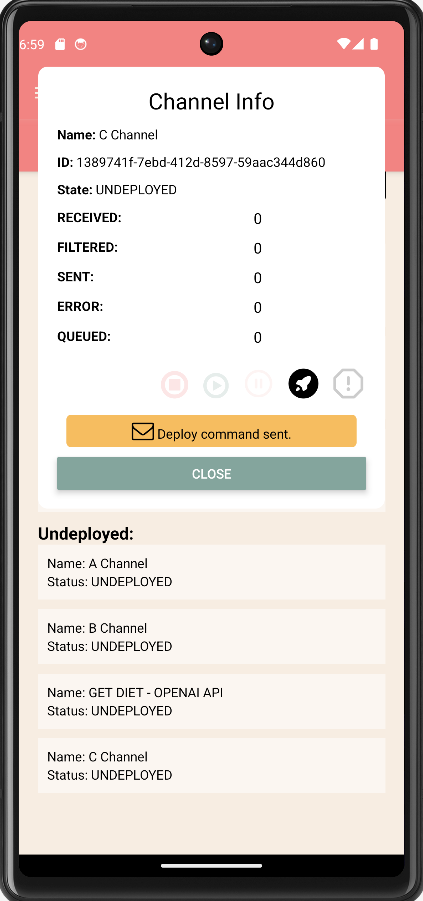
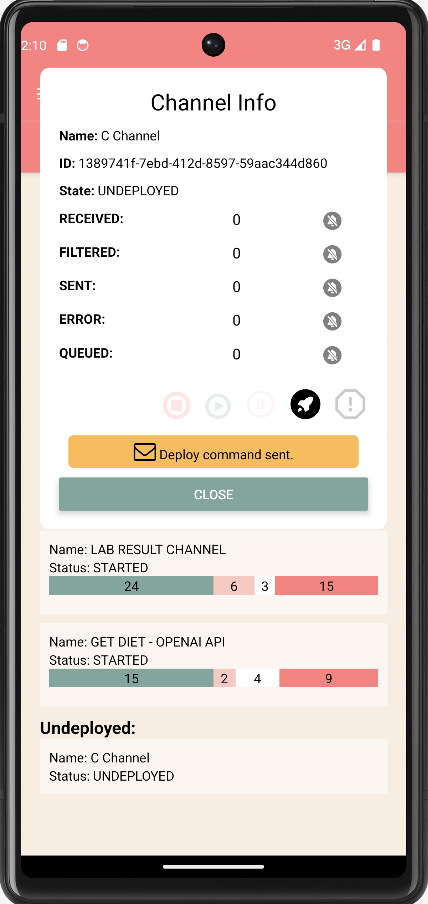
update: document improvement

diff --git a/README.md b/README.md
@@ -2,7 +2,7 @@
 
 ![Feature Image](docs/pocketmrth-feature-graphic.png)
 
-PocketMRTH is a free mobile app created in React Native and Expo.dev. It allows you to view and monitor your Mirth Connect instance and its channel statistics on the go.
+PocketMRTH is a free mobile app created in React Native and Expo.dev. It allows you to view, monitor and manage your Mirth Connect instance and its channels on the go.
 
 ## Download
 
@@ -21,6 +21,7 @@ Tutorial link here: [PocketMRTH - Get Started](https://thisdevblogs.wordpress.co
 - Effortless Channel Stats Visualization: Use the app's intuitive charts to visualize the status of your Mirth Connect servers and their channel statistics.
 - Start, Stop, Pause and Resume Channels: You are now able to interact and change your channel's state/status. 
 - Deploy and Undeploy Channels
+- Get Push Notification Alert for Specific Channel Stat Changes: Choose the channel and the specific statistic type to get notified when the app is "minimized". 
 
 ## Screenshots
 
@@ -35,6 +36,8 @@ Tutorial link here: [PocketMRTH - Get Started](https://thisdevblogs.wordpress.co
 ![Channel Command Stop Screen](docs/screenshot-channel-command-stop.png)
 
 ![Channel Command Deploy Screen](docs/screenshot-channel-command-deploy.png)
+
+![Channel Command Deploy Screen](docs/screenshot-profile-edit-page.png)
 
 
 ## Video Demo
